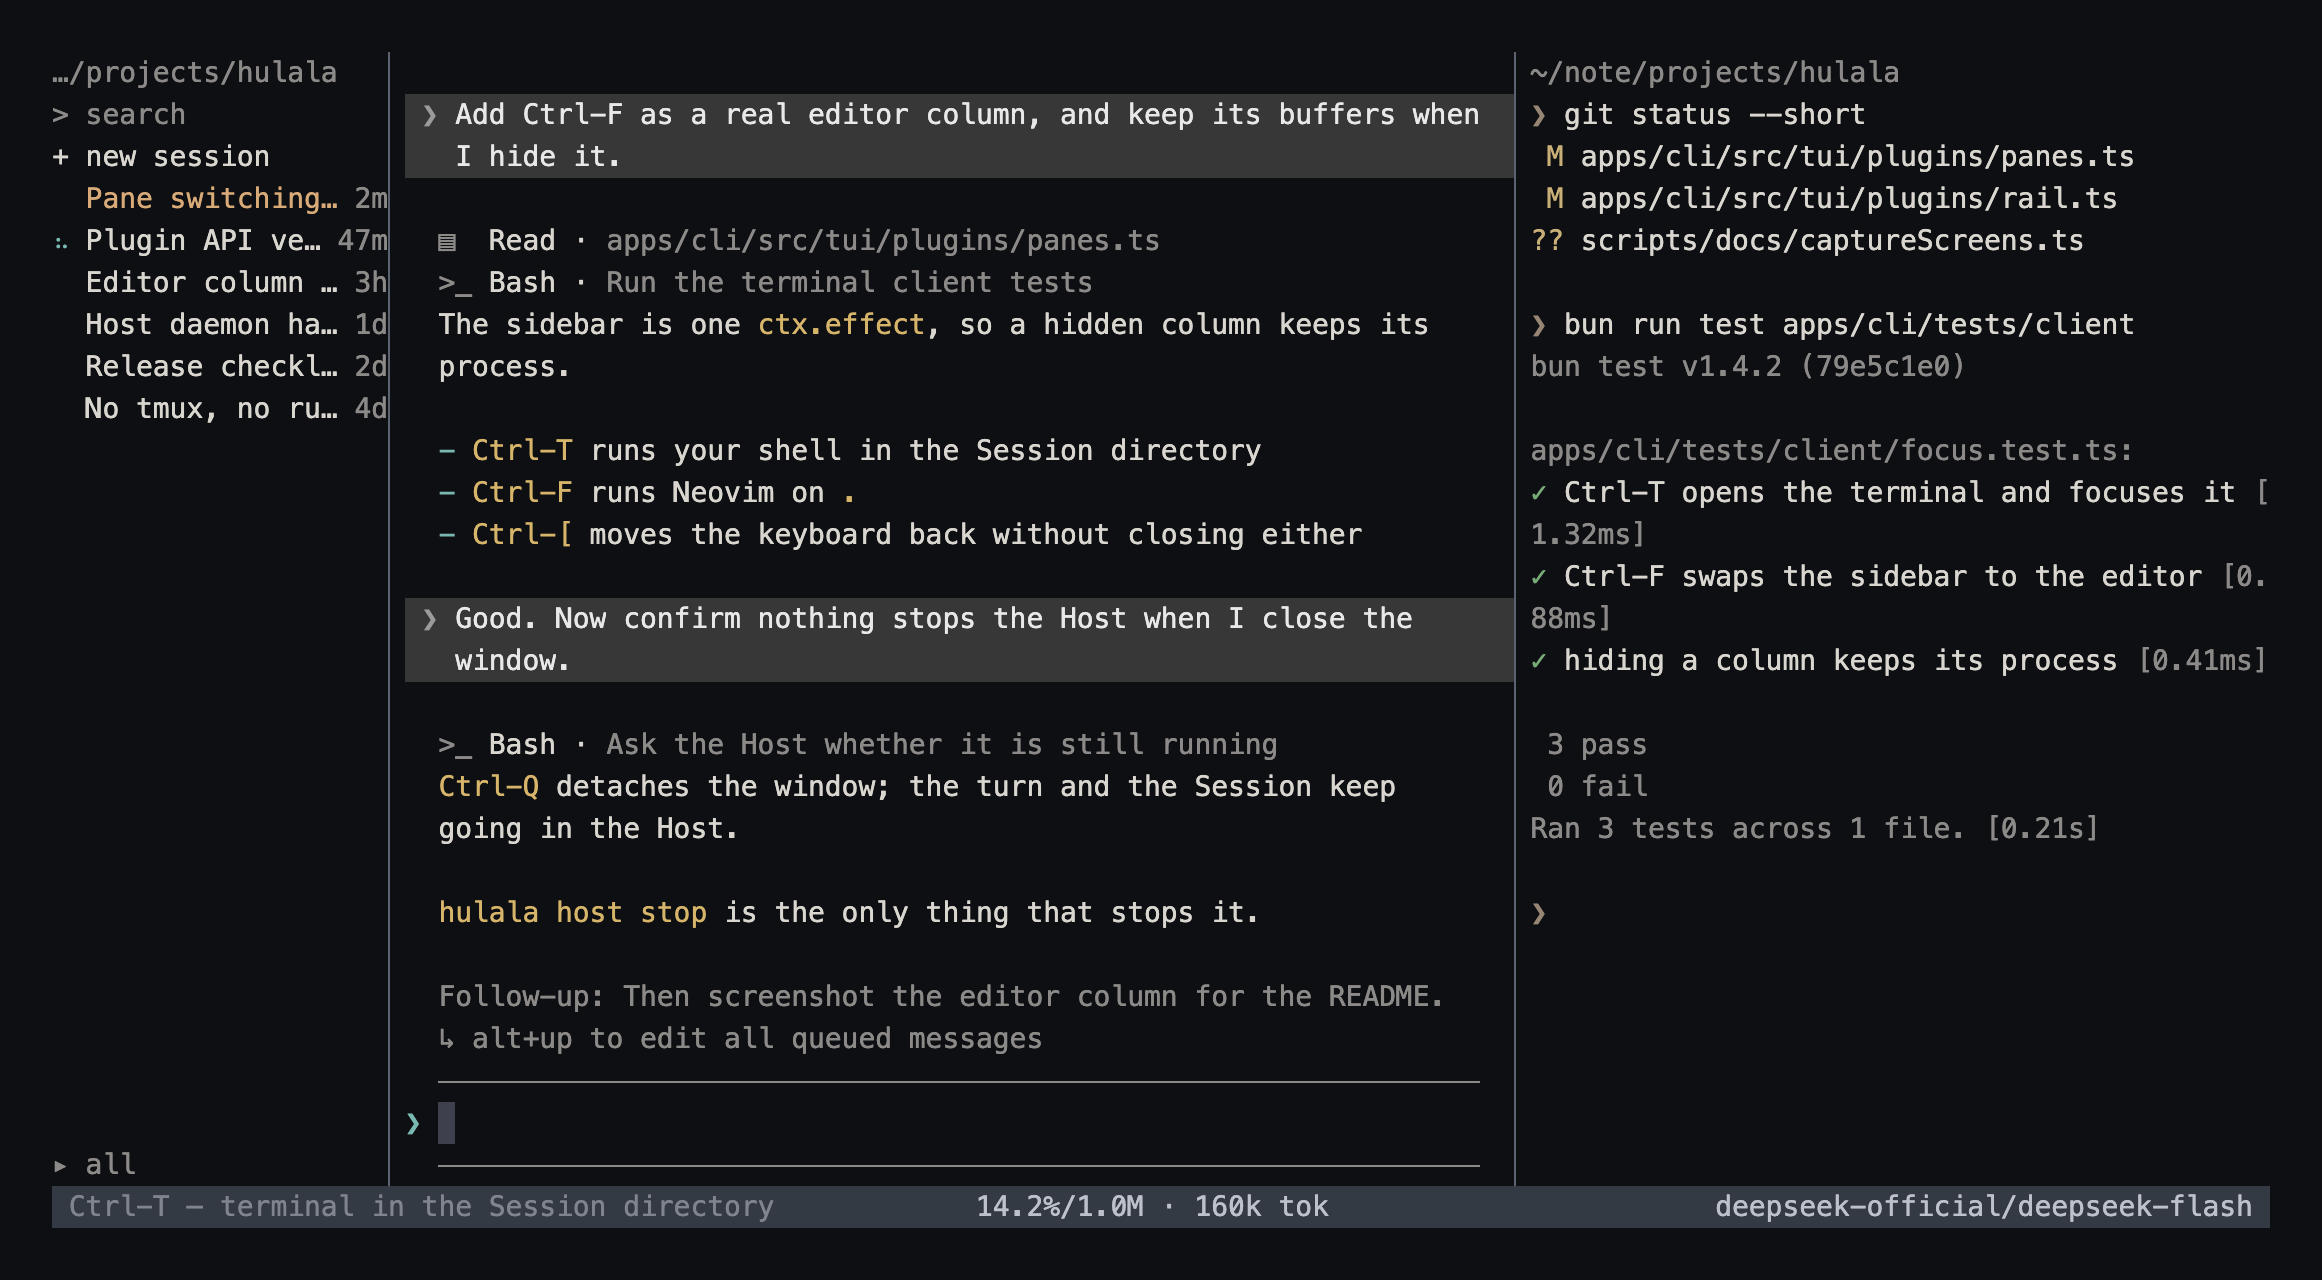
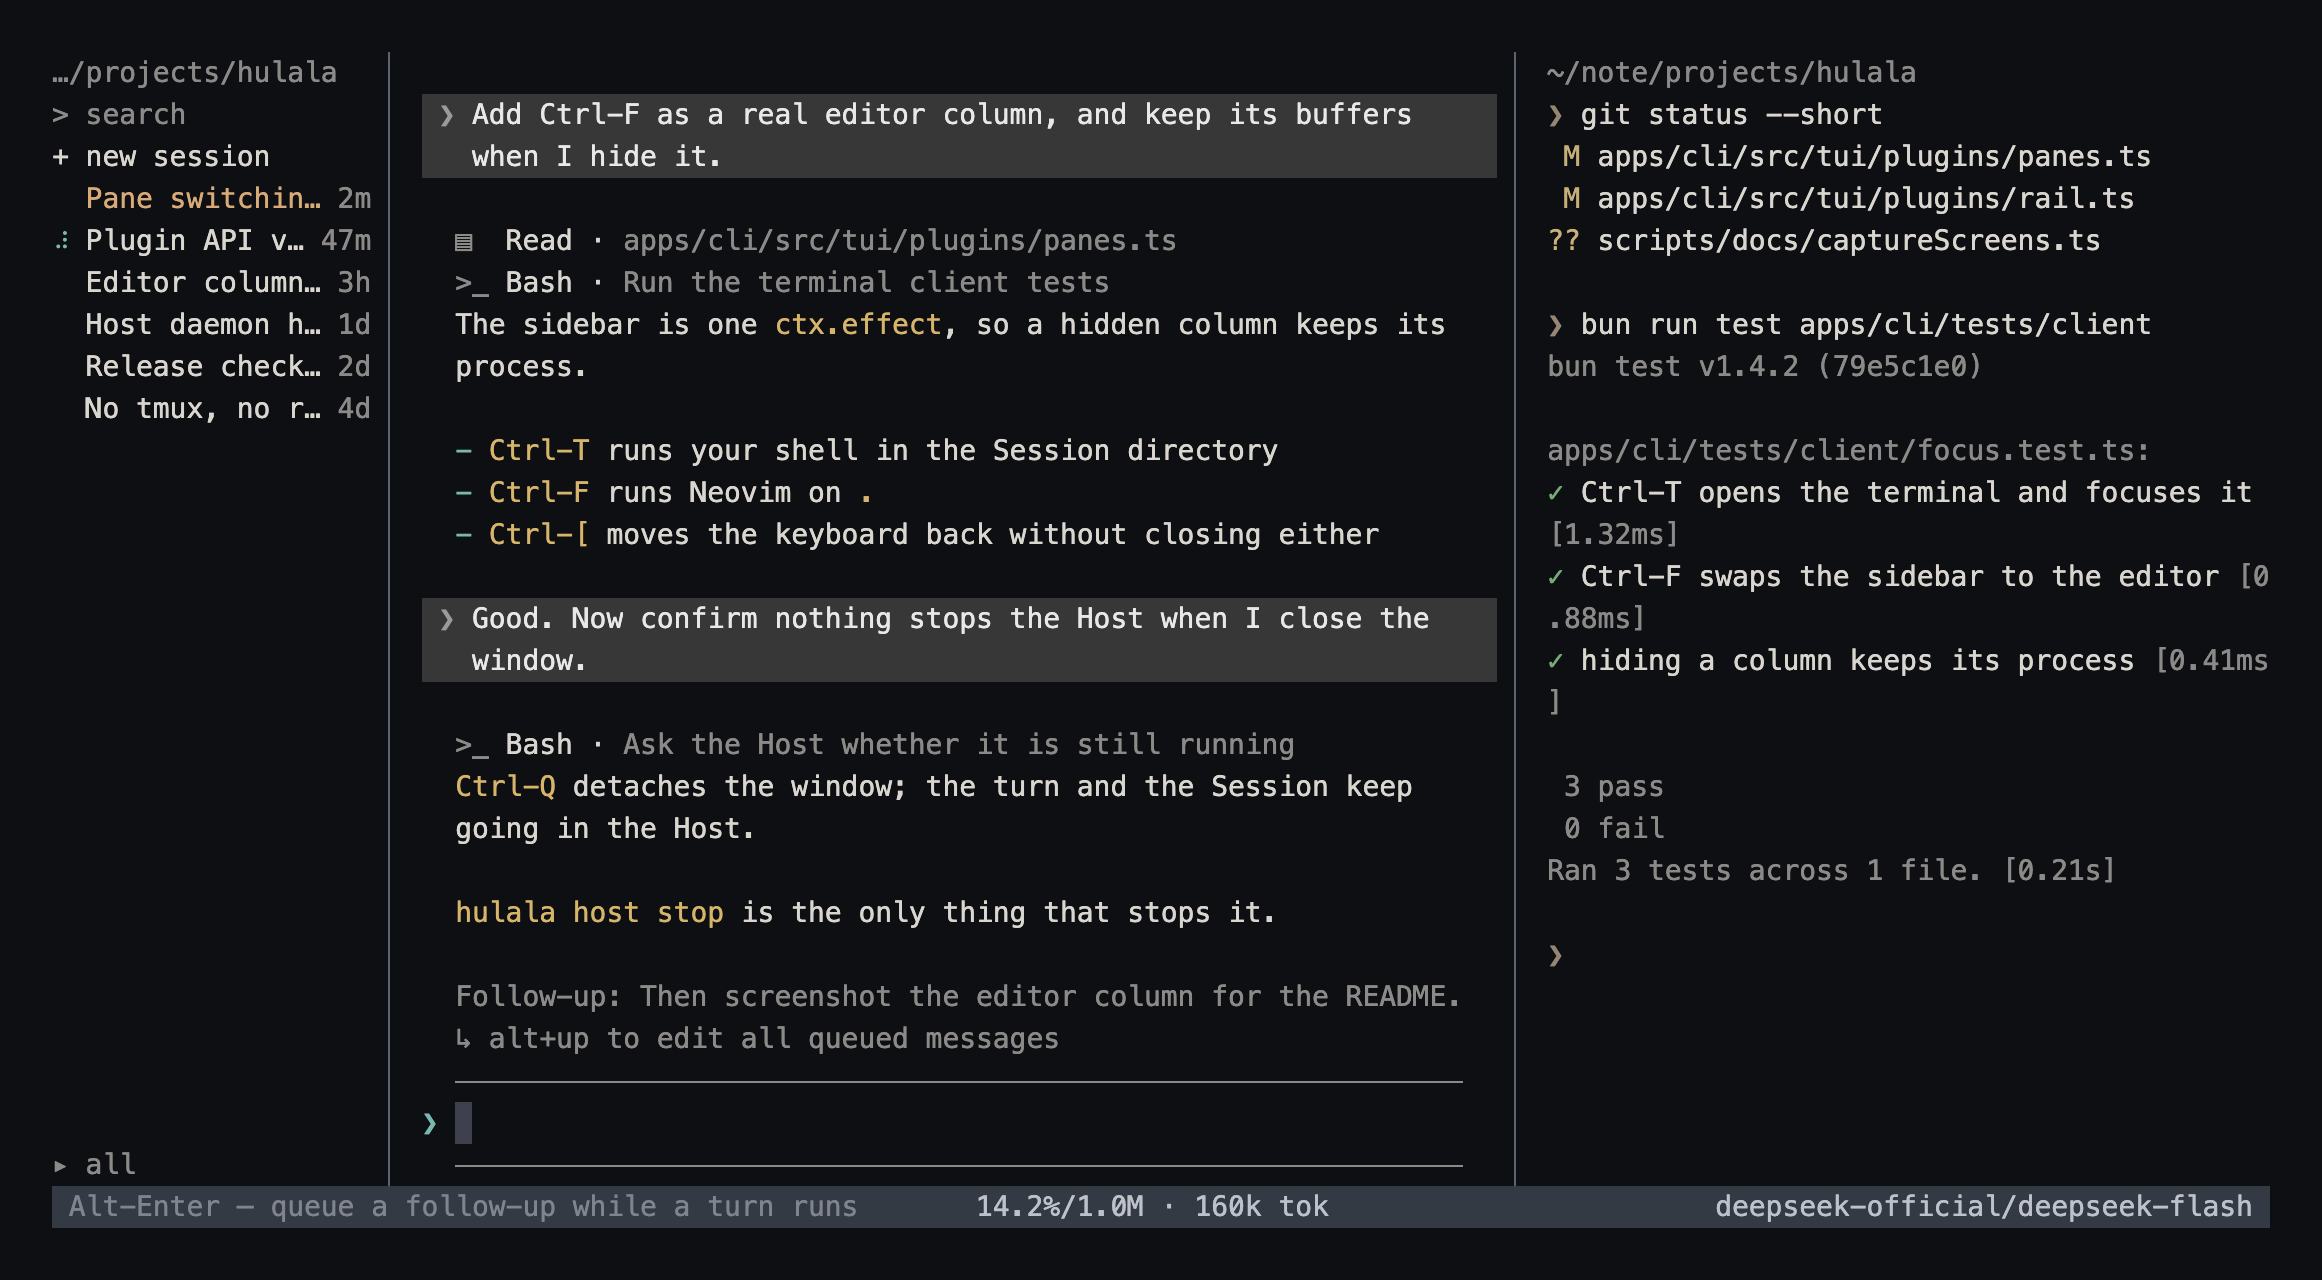
Put one column of air beside every divider
A divider is a glyph in its own column, so a rail title, a timestamp and a shell
prompt were all starting in the cell next to it and the rule read as part of the
text. Every divider now has a blank column on each side, in the rail layout and
in the conversation-plus-editor layout alike; the columns themselves are
unchanged apart from the cell the gutter takes.

Release 0.2.6.

diff --git a/apps/cli/tests/client/layout.test.ts b/apps/cli/tests/client/layout.test.ts
@@ -131,13 +131,13 @@ test('the editor column splits the width without touching the composer height', 
   expect(frame.lines).toHaveLength(24)
   expect(columns?.rect.height).toBe(23) // 24 - band; the editor reaches the top
   expect(status?.rect.height).toBe(1)
-  // One gap column between the two columns, and the status bar spans both.
-  const [conversation, divider, pane] = columns?.children ?? []
+  // One blank column on each side of the divider, and the band spans both.
+  const [conversation, , divider, , pane] = columns?.children ?? []
   expect(divider?.rect.width).toBe(1)
   expect(divider?.rect.x).toBe(50)
-  expect(conversation?.rect.width).toBe(50)
-  expect(pane?.rect.width).toBe(49)
-  expect(pane?.rect.x).toBe(51) // one divider column, then the pane
+  expect(conversation?.rect.width).toBe(49)
+  expect(pane?.rect.width).toBe(48)
+  expect(pane?.rect.x).toBe(52) // a gap, the divider, a gap, then the pane
   expect(pane?.rect.height).toBe(23) // 24 - band
   // The composer keeps its three rows inside the narrower left column.
   const leftChildren = conversation?.children ?? []
@@ -165,11 +165,11 @@ test('setPaneWidth moves the divider without rebuilding the transcript', () => {
 
   layout.setPaneWidth(60)
   const after = renderLayoutFrame(layout.root, 100, 24, () => undefined)
-  const [conversation, divider, pane] = after.root.children[0]?.children ?? []
-  expect(conversation?.rect.width).toBe(39)
+  const [conversation, , divider, , pane] = after.root.children[0]?.children ?? []
+  expect(conversation?.rect.width).toBe(38)
   expect(divider?.rect.x).toBe(39)
-  expect(pane?.rect.width).toBe(60)
-  expect(pane?.rect.x).toBe(40)
+  expect(pane?.rect.width).toBe(59)
+  expect(pane?.rect.x).toBe(41)
   // The same ScrollView instance survives, so a drag never loses scroll state.
   expect(after.root.children[0]?.children[0]?.children[0]?.component).toBe(scrollBefore)
   expect(scrollBefore).toBe(layout.transcriptScroll)
@@ -186,10 +186,10 @@ test('the side columns fill the frame when the conversation is put away', () => 
   const [columns, status] = frame.root.children
   expect(status?.rect.height).toBe(1)
   // The pane keeps its width and the rail absorbs the rest of the frame.
-  const [railBox, divider, paneBox] = columns?.children ?? []
-  expect(railBox?.rect).toMatchObject({ x: 0, width: 59 })
+  const [railBox, , divider, , paneBox] = columns?.children ?? []
+  expect(railBox?.rect).toMatchObject({ x: 0, width: 58 })
   expect(divider?.rect).toMatchObject({ x: 59, width: 1 })
-  expect(paneBox?.rect).toMatchObject({ x: 60, width: 40 })
+  expect(paneBox?.rect).toMatchObject({ x: 61, width: 39 })
   expect(frame.lines[3]).toContain('rail')
   expect(frame.lines[3]).toContain('nvim')
   // With the conversation put away the footer spans the frame: there is no
@@ -222,9 +222,9 @@ test('the side columns still resize the editor divider', () => {
   })
   layout.setPaneWidth(50)
   const frame = renderLayoutFrame(layout.root, 100, 24, () => undefined)
-  const [railBox, divider, paneBox] = frame.root.children[0]?.children ?? []
-  expect(railBox?.rect.width).toBe(49)
-  expect(divider?.rect.x).toBe(49)
+  const [railBox, , divider, , paneBox] = frame.root.children[0]?.children ?? []
+  expect(railBox?.rect.width).toBe(47)
+  expect(divider?.rect.x).toBe(48)
   expect(paneBox?.rect).toMatchObject({ x: 50, width: 50 })
 })
 
@@ -257,11 +257,12 @@ test('the rail, the conversation and the editor each get their columns', () => {
     railDivider: slab('|', 24),
   }
   const withEditor = renderLayoutFrame(buildRailTerminalLayout({ ...shared, pane }).root, 120, 24, () => undefined)
-  const [rail, railDivider, conversation, divider, editor] = withEditor.root.children[0]?.children ?? []
+  // rail | gap | divider | gap | conversation | gap | divider | gap | editor
+  const [rail, , railDivider, , conversation, , divider, , editor] = withEditor.root.children[0]?.children ?? []
   expect(rail?.rect).toMatchObject({ x: 0, width: 18 })
-  expect(railDivider?.rect).toMatchObject({ x: 18, width: 1 })
-  expect(conversation?.rect.width).toBe(68)
-  expect(divider?.rect.x).toBe(87)
+  expect(railDivider?.rect).toMatchObject({ x: 19, width: 1 })
+  expect(conversation?.rect.width).toBe(64)
+  expect(divider?.rect.x).toBe(86)
   expect(editor?.rect).toMatchObject({ x: 88, width: 32 })
   // The band is one surface across the whole frame, from the first column to the
   // last, and it is one row tall.
@@ -272,7 +273,7 @@ test('the rail, the conversation and the editor each get their columns', () => {
 
   // Without the editor the conversation takes everything the rail leaves.
   const alone = renderLayoutFrame(buildRailTerminalLayout(shared).root, 120, 24, () => undefined)
-  expect(alone.root.children[0]?.children?.map(child => child.rect.width)).toEqual([18, 1, 101])
+  expect(alone.root.children[0]?.children?.map(child => child.rect.width)).toEqual([18, 1, 1, 1, 99])
 })
 
 test('the rail layout still resizes the editor divider', () => {
@@ -293,7 +294,7 @@ test('the rail layout still resizes the editor divider', () => {
   layout.setPaneWidth(40)
   const frame = renderLayoutFrame(layout.root, 120, 24, () => undefined)
   const pane = frame.root.children[0]?.children?.at(-1)
-  expect(pane?.rect).toMatchObject({ x: 80, width: 40 })
+  expect(pane?.rect).toMatchObject({ x: 81, width: 39 })
 })
 
 test('the rail carries the path instead of the row above the composer', () => {
@@ -310,7 +311,7 @@ test('the rail carries the path instead of the row above the composer', () => {
   const withoutBar = renderLayoutFrame(buildRailTerminalLayout(shared).root, 120, 20, () => undefined)
   expect(withBar.lines.some(line => line.includes('cwd'))).toBe(true)
   expect(withoutBar.lines.some(line => line.includes('cwd'))).toBe(false)
-  const conversation = (frame: typeof withBar) => frame.root.children[0]?.children?.[2]?.children ?? []
+  const conversation = (frame: typeof withBar) => frame.root.children[0]?.children?.[4]?.children ?? []
   // transcript, pending, (cwd), composer
   expect(conversation(withBar)).toHaveLength(4)
   expect(conversation(withoutBar)).toHaveLength(3)

diff --git a/apps/cli/src/tui/view/layout.ts b/apps/cli/src/tui/view/layout.ts
@@ -56,6 +56,14 @@ function chatEntries(options: TerminalLayoutOptions): NonNullable<ConstructorPar
   ]
 }
 
+/** A one-column spacer the layout can size; a wrapper would hide a layout node. */
+class BlankColumn implements Component {
+  invalidate(): void {}
+  render(width: number): string[] {
+    return [' '.repeat(Math.max(0, width))]
+  }
+}
+
 /** Left column that reports pointer presence while keeping normal mouse routing. */
 class ConversationColumn extends VStack {
   constructor(children: ConstructorParameters<typeof VStack>[0], private readonly onPointer: () => void) {
@@ -221,15 +229,21 @@ export function buildRailTerminalLayout(options: RailLayoutOptions): SplitTermin
   const pane = options.pane
   let paneWidth = pane === undefined ? 0 : Math.max(SPLIT_MIN_SIZE, Math.round(pane.width))
 
+  // The rule is a separator, so neither the rail nor the conversation starts in
+  // the cell where it is drawn: one blank column on each side of every divider.
   const entries: NonNullable<ConstructorParameters<typeof HStack>[0]> = [
-    { component: options.rail, basis: railWidth, grow: 0, shrink: 0 },
+    { component: options.rail, basis: Math.max(RAIL_MIN_SIZE, railWidth - 1), grow: 0, shrink: 0 },
+    { component: new BlankColumn(), basis: SPLIT_GAP, grow: 0, shrink: 0 },
     { component: options.railDivider, basis: SPLIT_GAP, shrink: 0 },
+    { component: new BlankColumn(), basis: SPLIT_GAP, grow: 0, shrink: 0 },
     { component: conversation, basis: 0, grow: 1, shrink: 1, minSize: RAIL_CONVERSATION_MIN },
   ]
   if (pane !== undefined) {
     entries.push(
+      { component: new BlankColumn(), basis: SPLIT_GAP, grow: 0, shrink: 0 },
       { component: pane.divider, basis: SPLIT_GAP },
-      { component: pane.component, basis: paneWidth, grow: 0, shrink: 1, minSize: SPLIT_MIN_SIZE },
+      { component: new BlankColumn(), basis: SPLIT_GAP, grow: 0, shrink: 0 },
+      { component: pane.component, basis: Math.max(SPLIT_MIN_SIZE, paneWidth - 1), grow: 0, shrink: 1, minSize: SPLIT_MIN_SIZE },
     )
   }
 
@@ -250,7 +264,7 @@ export function buildRailTerminalLayout(options: RailLayoutOptions): SplitTermin
     if (next === paneWidth) return
     paneWidth = next
     columns.removeChild(pane.component)
-    columns.addChild(pane.component, { basis: paneWidth, grow: 0, shrink: 1, minSize: SPLIT_MIN_SIZE })
+    columns.addChild(pane.component, { basis: Math.max(SPLIT_MIN_SIZE, paneWidth - 1), grow: 0, shrink: 1, minSize: SPLIT_MIN_SIZE })
   }
 
   return { root, transcriptScroll, setPaneWidth }
@@ -277,9 +291,11 @@ export function buildSideColumnsLayout(options: SideColumnsLayoutOptions): SideC
     : pane === undefined
       ? [{ component: rail.component, basis: 0, grow: 1, shrink: 1, minSize: 1 }]
       : [
-          { component: rail.component, basis: Math.max(RAIL_MIN_SIZE, Math.round(rail.width)), grow: 1, shrink: 1, minSize: RAIL_MIN_SIZE },
+          { component: rail.component, basis: Math.max(RAIL_MIN_SIZE, Math.round(rail.width) - 1), grow: 1, shrink: 1, minSize: RAIL_MIN_SIZE },
+          { component: new BlankColumn(), basis: SPLIT_GAP, grow: 0, shrink: 0 },
           { component: rail.divider, basis: SPLIT_GAP, shrink: 0 },
-          { component: pane.component, basis: paneWidth, grow: 0, shrink: 1, minSize: SPLIT_MIN_SIZE },
+          { component: new BlankColumn(), basis: SPLIT_GAP, grow: 0, shrink: 0 },
+          { component: pane.component, basis: Math.max(SPLIT_MIN_SIZE, paneWidth - 1), grow: 0, shrink: 1, minSize: SPLIT_MIN_SIZE },
         ])
 
   // Even with the conversation put away the frame keeps its status band: the
@@ -328,8 +344,10 @@ export function buildSplitTerminalLayout(options: SplitTerminalLayoutOptions): S
 
   const columns = new HStack([
     { component: conversation, basis: 0, grow: 1, shrink: 1, minSize: SPLIT_MIN_SIZE },
+    { component: new BlankColumn(), basis: SPLIT_GAP, grow: 0, shrink: 0 },
     { component: options.divider, basis: SPLIT_GAP },
-    { component: options.pane, basis: paneWidth, grow: 0, shrink: 1, minSize: SPLIT_MIN_SIZE },
+    { component: new BlankColumn(), basis: SPLIT_GAP, grow: 0, shrink: 0 },
+    { component: options.pane, basis: Math.max(SPLIT_MIN_SIZE, paneWidth - 1), grow: 0, shrink: 1, minSize: SPLIT_MIN_SIZE },
   ])
 
   const root = new VStack([
@@ -347,7 +365,7 @@ export function buildSplitTerminalLayout(options: SplitTerminalLayoutOptions): S
     if (next === paneWidth) return
     paneWidth = next
     columns.removeChild(options.pane)
-    columns.addChild(options.pane, { basis: paneWidth, grow: 0, shrink: 1, minSize: SPLIT_MIN_SIZE })
+    columns.addChild(options.pane, { basis: Math.max(SPLIT_MIN_SIZE, paneWidth - 1), grow: 0, shrink: 1, minSize: SPLIT_MIN_SIZE })
   }
 
   return { root, transcriptScroll, setPaneWidth }

diff --git a/apps/cli/src/tui/view/hints.ts b/apps/cli/src/tui/view/hints.ts
@@ -29,7 +29,7 @@ export const USAGE_HINTS: readonly UsageHint[] = [
   { keys: 'Ctrl-T', text: 'terminal in the Session directory' },
   { keys: 'Ctrl-F', text: 'Neovim in the right column' },
   { keys: 'Ctrl-[ Ctrl-]', text: 'move between rail, chat and column' },
-  { keys: 'Ctrl-Q', text: 'detach — the Host keeps running the turn' },
+  { keys: 'Ctrl-Q', text: 'detach; the Host keeps running the turn' },
   { keys: 'Esc', text: 'stop the running turn' },
   { keys: 'Ctrl-O', text: 'expand the tool row under the pointer' },
   { keys: 'Alt-Enter', text: 'queue a follow-up while a turn runs' },

diff --git a/apps/website/app/WebInstallCommand.tsx b/apps/website/app/WebInstallCommand.tsx
@@ -3,7 +3,7 @@
 import { useState } from "react";
 
 const COMMAND = "curl -fsSL https://hulala.ai/install.sh | sh";
-const VERSION = "0.2.5";
+const VERSION = "0.2.6";
 
 export default function WebInstallCommand({ locale }: { locale: "en" | "zh-CN" }) {
   const zh = locale === "zh-CN";
